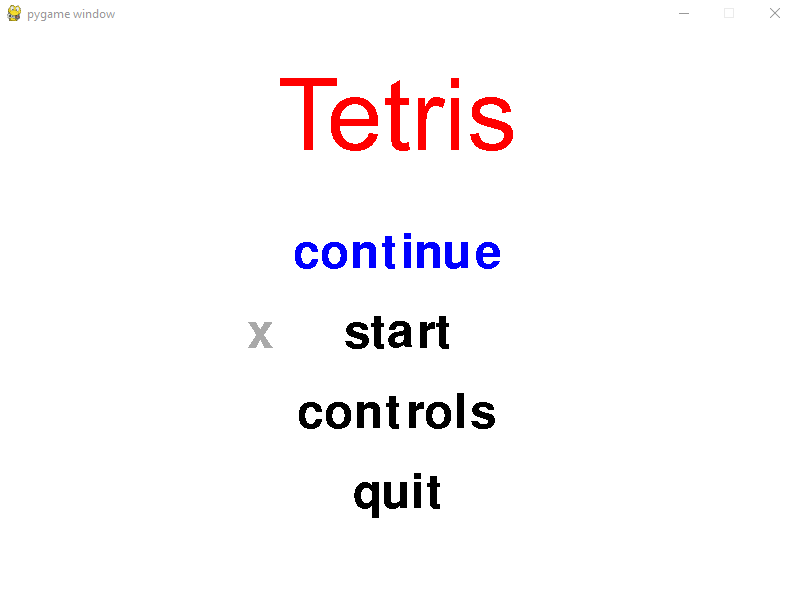
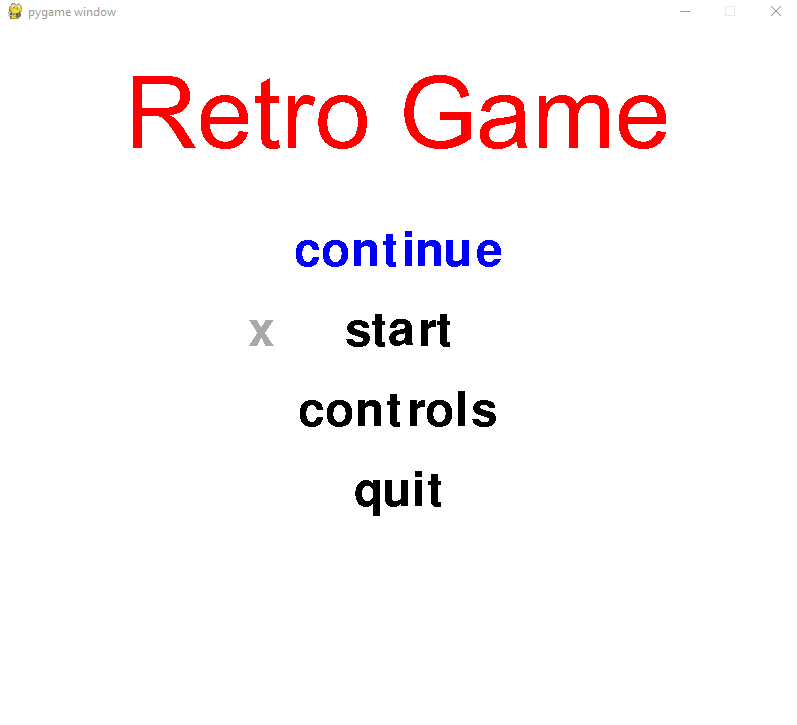
renaming title

diff --git a/menu.py b/menu.py
@@ -47,7 +47,7 @@ class MainMenu:
     def drawMenu(self):
         self.screen.fill("white")
         myFont = pygame.font.SysFont('Arial', 100)
-        textSurface = myFont.render("Tetris", False, "red")
+        textSurface = myFont.render("Retro Game", False, "red")
         self.screen.blit(textSurface, (Globals.SCREEN_WIDTH/2 - textSurface.get_width()/2, 30))
 
         myFont = pygame.font.SysFont('Comic', 70)
